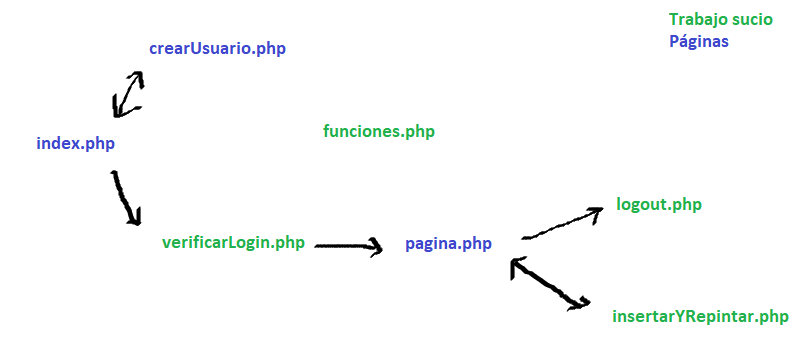
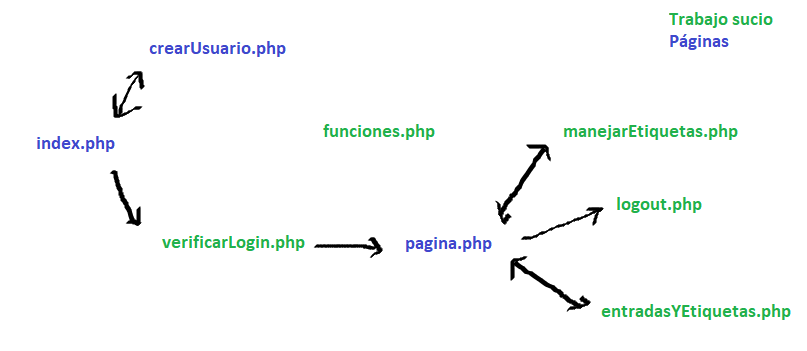
funciona! ahora a seguir

diff --git a/js/scripts.js b/js/scripts.js
@@ -31,11 +31,12 @@ function pagCerrarModal(id) {
 }
 
 var arrayInput = new Array ();
-function pintarEtiqueta() {
+function cambiarlenombre() {
+    /* CON ESTO VOY AGARRANDO LO QUE MANDO CON "NUEVA ETIQUETA" EN EL INPUT Y LO VOY AGREGANDO A UN ARRAY
     var loDelInput = document.getElementById("inputEtiqueta").value;
     document.getElementById("etiquetasElegidas").innerHTML += "<span class='cadaEtiquetaInput'>" + loDelInput + "</span>";
     arrayInput.push(loDelInput);
-    console.log(arrayInput);
+    console.log(arrayInput); */
 
     /* 
     document.getElementById("etiquetasElegidas").innerHTML += "<span class='cadaEtiquetaInput'>" + loDelInput + "</span>";
@@ -49,11 +50,9 @@ function pintarEtiqueta() {
     } */
     document.getElementById("inputEtiqueta").value = "";
 }
-function cambiarFondo(id) {
 
-    document.getElementById("cadaEtiqueta_" + id).style.color = "red";
-}
 
+// AGARRAR EL ARRAYINPUT Y PASARLO A JSON PARA MANDARLO
 
 function manejarEtiquetas() {
     var ajaxURL = "entradasYEtiquetas.php";
@@ -61,15 +60,27 @@ function manejarEtiquetas() {
         solicitudAjax.onreadystatechange = function() {
             if (solicitudAjax.readyState == 4 && solicitudAjax.status == 200) {
                     respuesta = solicitudAjax.responseText;
-                    document.getElementById("todasEntradas").innerHTML = respuesta; 
                    
             }
-            solicitudAjax.open("POST", ajaxURL);
+            var JSONAMandar = JSON.stringify(arrayInput);
+            solicitudAjax.open("POST", ajaxURL, true);
+        
+            solicitudAjax.send(JSONAMandar);
 
         
-            solicitudAjax.send('arrayInput=' + JSON.stringify(arrayInput));
         }        
 }
+
+
+function pintarEtiqueta(etq) {
+    console.log(etq);
+    document.getElementById("inputEtiqueta").value += etq + ", ";
+    /* document.getElementById("cadaEtiqueta_" + id).style.color = "red"; */
+    // ESTO YA FUNCIONA, AHORA HACER UN IF PARA CAMBIARLE EL COLOR SI SE SELECCIONA Y OTRO IF PARA QUE SE INCLUYA EN EL ARRAY SI ESTÁ SELECCIONADA
+}
+
+
+
 
 
 /* window.onlick = function (event) {

diff --git a/entradasYEtiquetas.php b/entradasYEtiquetas.php
@@ -5,10 +5,13 @@ include("funciones.php");
 
     $usuario = $_SESSION["usuario"];
     $texto = $_POST["adicion"];
-    $JsonEtiquetas = $_POST["arrayInput"]; //esto es un string
+    $etiqInput = $_POST["inputEtiqueta"]; //esto es un string
+    echo "La variable post:";
     var_dump($_POST);
-/*     print_r($JsonEtiquetas);
-    var_dump($texto); */
+    $todasEtiquetasInput = trim($etiqInput);
+    echo "<br><br><br>Las etiquetas sin espacios:";
+    var_dump($todasEtiquetasInput);
+
 
     // Sacar id_usuario
     $accesoAveriguarID = new ConectarDB;
@@ -38,60 +41,51 @@ include("funciones.php");
     $accesoInsertar->cerrar();
 
     // Insertar etiquetas
-    $etiquetasSeparadas = explode(",", $JsonEtiquetas, -1);
-    /* var_dump($etiquetasSeparadas); */
+    $arrayEtiqInput = explode(", ", $todasEtiquetasInput);
+    echo "<br><br><br>Las etiquetas en array: <pre>";
+    var_dump($arrayEtiqInput);
+    echo "</pre>";
+
+    $etiqApelotonadas = "";
+    $accesoVerEtiquetas = new ConectarDB;
+    $consultaVerEtiquetas = "SELECT * FROM etiquetas;";
+    $resultadoVerEtiquetas = $accesoVerEtiquetas->consultar($consultaVerEtiquetas)->fetch_all(MYSQLI_ASSOC);
+    foreach ($resultadoVerEtiquetas as $cadaResultado) {
+        $etiqApelotonadas = $etiqApelotonadas . "," . $cadaResultado["nombre"] ; 
+    }
     
-    foreach ($etiquetasSeparadas as $etiqueta) {
-        $accesoComprobacion = new ConectarDB;
-        $consultaComprobacion = "SELECT COUNT(*) as repetida FROM etiquetas, usuarios WHERE etiquetas.nombre = '$etiqueta' AND usuarios.usuario = '$usuario';";
-        $resultadoComprobacion = $accesoComprobacion->consultar($consultaComprobacion)->fetch_all(MYSQLI_ASSOC);
-        var_dump($resultadoComprobacion);
-        echo "<br><br><br>";
-        if ($resultadoComprobacion[0]["repetida"] == 1) {
-            $accesoSacarId = new ConectarDB;
-            $consultaSacarId = "SELECT id_etiqueta FROM etiquetas WHERE nombre = '$etiqueta';";
-            $resultadoSacarId = $accesoSacarId->consultar($consultaSacarId)->fetch_all(MYSQLI_ASSOC);
-            foreach ($resultadoSacarId as $idEtiqueta) {
-                // ACÁ TENGO EL ID DE LA ETIQUETA, QUE LO VOY A USAR PARA INSERTARLO DIRECTAMENTE EN ETIQ_ENTRADAS EMPAREJÁNDOLO CON EL ID DE LA ÚLTIMA ENTRADA
-                $idEtiqueta = $idEtiqueta["id_etiqueta"];
-                $consultaInsertarEtiqRepe = "INSERT INTO etiq_entradas (id_etiqueta, id_entrada) VALUES ('$idEtiqueta', (SELECT MAX(id_entrada) FROM entradas));";
-                $resultadoInsertarEtiqRepe = $accesoSacarId->consultar($consultaInsertarEtiqRepe);                
-            }
-            echo "<pre>";
-            var_dump($resultadoSacarId);
-            echo "</pre>Hasta aquí<br>";
-        } else {
-            $accesoInsertarNuevaEtiq = new ConectarDB;
-            $consultaInsertarNuevaEtiq = "INSERT INTO etiquetas (nombre) VALUES ('$etiqueta');";
-            $resultadoInsertarNuevaEtiq = $accesoInsertarNuevaEtiq->consultar($consultaInsertarNuevaEtiq);
-            $consultaInsertarEnTablaUnion = "INSERT INTO etiq_entradas (id_etiqueta, id_entrada) VALUES ((SELECT MAX(id_etiqueta) FROM etiquetas), (SELECT MAX(id_entrada) FROM entradas));";
-            $resultadoInsertarEnTablaUnion = $accesoInsertarNuevaEtiq->consultar($consultaInsertarEnTablaUnion);
-        }
-        $accesoSacarId->cerrar();
-        $accesoComprobacion->cerrar();
-        $accesoInsertarNuevaEtiq->cerrar();
+    $arrayEtiqBD = explode(",", $etiqApelotonadas); 
+    echo "<br><br><br>ñññe<pre>";
+    var_dump($arrayEtiqBD);
+    echo "</pre>";
+    $accesoVerEtiquetas->cerrar();
+
+    $lasEtiqQueNoEstan = array_diff($arrayEtiqInput, $arrayEtiqBD);
+    echo "<br><br><br>Diferencias:<pre>";
+    var_dump($lasEtiqQueNoEstan);
+
+
+    $lasEtiqQueSiEstan = array_diff($arrayEtiqInput, $lasEtiqQueNoEstan);
+    echo "<br><br><br>Diferencias:<pre>";
+    var_dump($lasEtiqQueSiEstan);
+
+    $accesoInsertarEtiquetas = new ConectarDB;
+    foreach ($lasEtiqQueNoEstan as $cadaEtiqueta) {
+        $consultaInsertarEtiquetas = "INSERT INTO etiquetas (id_etiqueta, nombre) VALUES (NULL, '$cadaEtiqueta');";
+        $resultadoInsertarEtiquetas = $accesoInsertarEtiquetas->consultar($consultaInsertarEtiquetas);
+        $consultaEmparejarNo = "INSERT INTO etiq_entradas (id_etiqueta, id_entrada) VALUES ((SELECT MAX(id_etiqueta) FROM etiquetas), (SELECT MAX(id_entrada) FROM entradas))";
+        $resultadoEmparejarNo = $accesoInsertarEtiquetas->consultar($consultaEmparejarNo);
     }
 
-    /* foreach ($etiquetasSeparadas as $etiqueta) {
-        // Ver si etiqueta ya existe
-        $accesoEtiquetaExiste = new ConectarDB;
-        $consultaEtiquetaExiste = "SELECT COUNT(*) as numRepeticion FROM etiquetas WHERE etiquetas.nombre = '$etiqueta';";
-        $resultadoEtiquetaExiste = $accesoEtiquetaExiste->consultar($consultaEtiquetaExiste)->fetch_all(MYSQLI_ASSOC);
-        
-
-
-        $conexion3 = new ConectarDB;
-        $consulta3 = "INSERT INTO etiquetas (id_etiqueta, nombre) VALUES (NULL, '$etiqueta');";
-        $resultado3 = $conexion3->consultar($consulta3);
-        $conexion3->cerrar();
-    
-    
-        $conexion4 = new ConectarDB;
-        $consulta4 = "INSERT INTO etiq_entradas (id_etiq_entrada, id_entrada, id_etiqueta) VALUES (NULL, (SELECT MAX(id_entrada) FROM entradas), (SELECT MAX(id_etiqueta) FROM etiquetas));";
-        $resultado4 = $conexion4->consultar($consulta4);
-        $conexion4->cerrar();
-    }  */
-    /* header("Location: pagina.php"); */
+    foreach ($lasEtiqQueSiEstan as $cadaEtiqueta) { 
+        $consultaSacarId = "SELECT id_etiqueta FROM etiquetas WHERE nombre = '$cadaEtiqueta';";
+        $resultadoSacarId = $accesoInsertarEtiquetas->consultar($consultaSacarId)->fetch_all(MYSQLI_ASSOC);
+        $idEtiqueta = $resultadoSacarId[0]["id_etiqueta"];
+        $consultaEmparejarNo = "INSERT INTO etiq_entradas (id_entrada, id_etiqueta) VALUES ((SELECT MAX(id_entrada) FROM entradas), '$idEtiqueta');";
+        $resultadoEmparejarNo = $accesoInsertarEtiquetas->consultar($consultaEmparejarNo);
+    }
+  
+    header("Location: pagina.php");
     
 
 

diff --git a/pagina.php b/pagina.php
@@ -57,7 +57,7 @@ chequearSesion();
             <textarea name="adicion" id="adicion"  cols="30" rows="5" placeholder="Escribe aquí" maxlength="995" oninput="pagContarCar()"></textarea>
             <div id="pagContadorCar">0/995</div> 
             <br>
-            <!-- <div name="etiquetasElegidas" id="etiquetasElegidas">Etiquetas </div> -->
+            <div name="etiquetasElegidas" id="etiquetasElegidas">Etiquetas </div>
             <br>
             <?php
                 $accesoEtiquetas = new ConectarDB;
@@ -68,9 +68,9 @@ chequearSesion();
                 <?php 
                     foreach ($resultadoEtiquetas as $etiqueta) {   
                     ?>
-                        <span class="cadaEtiquetaInput" onclick="cambiarFondo(<?php echo $etiqueta['id_etiqueta'];?>)" id="cadaEtiqueta_<?php echo $etiqueta['id_etiqueta'];?>" data-id-etiqueta="<?php echo $etiqueta['id_etiqueta'];?>">
+                        <span class="cadaEtiquetaInput" onclick="pintarEtiqueta('<?php echo $etiqueta['nombre'];?>')" id="cadaEtiqueta_<?php echo $etiqueta['id_etiqueta'];?>" data-id-etiqueta="<?php echo $etiqueta['id_etiqueta'];?>">
                             <?php echo $etiqueta["nombre"];?>
-                    </span>
+                        </span>
                     <?php
                     }
                 }
@@ -79,12 +79,15 @@ chequearSesion();
             <br>
             <label for="inputEtiquetas">Etiquetas</label>
             <input type="text" name="inputEtiqueta" id="inputEtiqueta" placeholder="etiqueta" >
-<!--             <span id="pintarEtiqueta" onclick="pintarEtiqueta()">Nueva etiqueta</span> -->
+            <!-- <span id="pintarEtiqueta" onclick="pintarEtiqueta()">
+                Nueva etiqueta
+            </span> -->
             <br>
             <input type="submit" value="Insertar" id="btnInsertar" onclick="manejarEtiquetas()">
         </form>
 
         
+
         <?php
         $accesoEtiquetas->cerrar();
 
